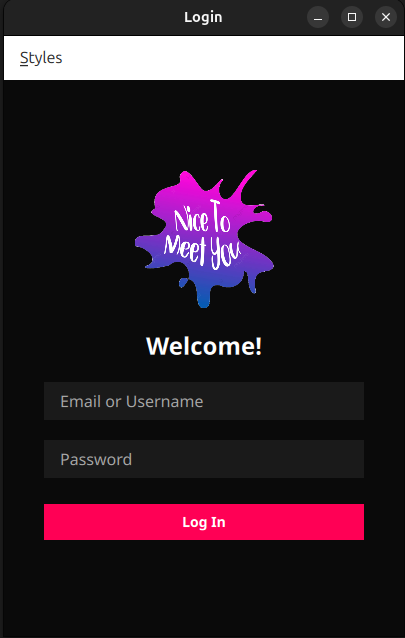
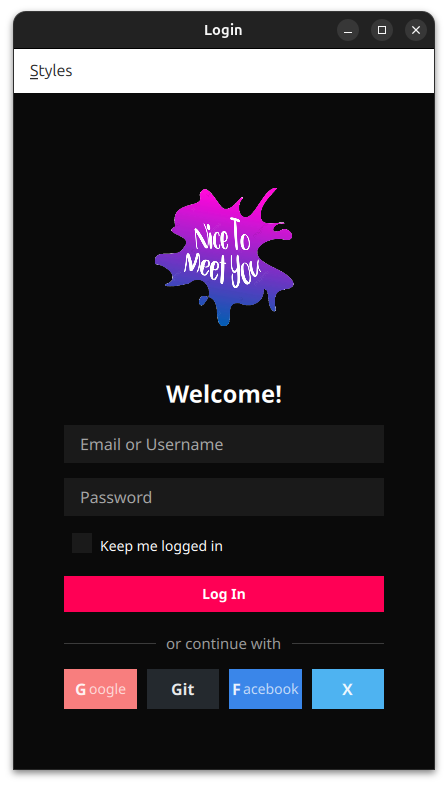
Update Readme: add google-sign-in settings.

diff --git a/src/qml/main.qml b/src/qml/main.qml
@@ -28,9 +28,9 @@ ApplicationWindow {
         },
         "Facebook": {
             mainText: "F",
-            secondaryText: "",
-            color: "#1877F2",
-            textColor: StyleSystem.current().textColor
+            secondaryText: "acebook",
+            color: "#3a86e9",
+            textColor: "#ffffff"
         },
         "X": {
             mainText: "X",

diff --git a/src/oauth/googleauth.cpp b/src/oauth/googleauth.cpp
@@ -7,6 +7,26 @@ GoogleAuth::GoogleAuth(QObject *parent)
     , oauth2(new QOAuth2AuthorizationCodeFlow(this))
     , replyHandler(new QOAuthHttpServerReplyHandler(8080, this))
 {
+    replyHandler->setCallbackText(
+        "<html>"
+        "<head>"
+            "<style>"
+                "body { font-family: Arial, sans-serif; text-align: center; padding: 50px; background-color: #f0f2f5; }"
+                "h1 { color: #1a73e8; margin-bottom: 20px; }"
+                "p { color: #5f6368; font-size: 18px; }"
+                ".container { background: white; padding: 40px; border-radius: 8px; box-shadow: 0 2px 4px rgba(0,0,0,0.1); display: inline-block; }"
+            "</style>"
+        "</head>"
+        "<body>"
+            "<div class='container'>"
+                "<h1>Successfully Logged In!</h1>"
+                "<p>You are now logged in to Qt-login-demo app.</p>"
+                "<p>You can safely return to the application.</p>"
+            "</div>"
+        "</body>"
+        "</html>"
+    );
+
     setupOAuth2();
 }
 
@@ -44,6 +64,9 @@ void GoogleAuth::setupOAuth2()
 
             const auto email = object["email"].toString();
             const auto name = object["name"].toString();
+
+            // Use token for authorized requests:
+            // your_api_caller.setBearerToken(m_oauth.token().toLatin1());
 
             emit loginSucceeded(email, name);
             reply->deleteLater();

diff --git a/README.md b/README.md
@@ -14,7 +14,6 @@ A Qt/QML application demonstrating dynamic UI styling capabilities with multiple
   <img src="screenshots/modern_ui_focus.png" width="200" alt="Modern Style">
   <img src="screenshots/neumorphic_ui_focus.png" width="200" alt="Neumorphic Style">
   <img src="screenshots/game_ui_focus.png" width="200" alt="Gaming Style">
-
 </div>
 
 ## Features
@@ -31,6 +30,28 @@ A Qt/QML application demonstrating dynamic UI styling capabilities with multiple
   - Styled buttons
   - Dynamic color schemes
   - Custom typography
+
+- Google Sign-in Integration:
+  1. Follow [this post](https://www.auronsoftware.com/kb/general/miscellaneous/google-oauth2-how-to-setup-a-client-id-for-use-in-desktop-software/) to create OAuth 2.0 credentials
+     - Create a new project or select existing one
+     - Configure OAuth consent screen
+     - Create OAuth 2.0 Client ID
+
+  2. Open `src/oauth/googleauth.h` and replace the credentials:
+     ```cpp
+     const QString clientId = "your-client-id-here";
+     const QString clientSecret = "your-client-secret-here";
+     ```
+  3. Run the app and click the "Google" button
+     <div align="center">
+      <img src="screenshots/google_sign_in_1.png" width="200" alt="Google Sign-in Page">
+      <img src="screenshots/google_sign_in_2.png" width="200" alt="Google Sign-in Page">
+      <img src="screenshots/google_sign_in_3.png" width="200" alt="Google Sign-in Page">
+     </div>
+  4. After successful authentication:
+     <div align="center">
+       <img src="screenshots/google_sign_in_success_result.png" width="200" alt="Successful Sign-in">
+     </div>
 
 ## Build Instructions
 
@@ -97,7 +118,10 @@ If you encounter "Could not find a package configuration file provided by Qt6", 
 - ✅ Add save login data checkbox
 - ✅ Add SSO (Google, Facebook, GitHub, etc) buttons
 - ✅ Fix bash build script
-- 🔑 Add Google SignIn
+- ✅ Add Google SignIn
+- 🔑 Add GitHub SignIn
+- 🔑 Add Facebook SignIn
+- 🔑 Add X SignIn
 - 🌐 Deploy to GitHub Pages
 - 📱 Mobile friendly UI
 
